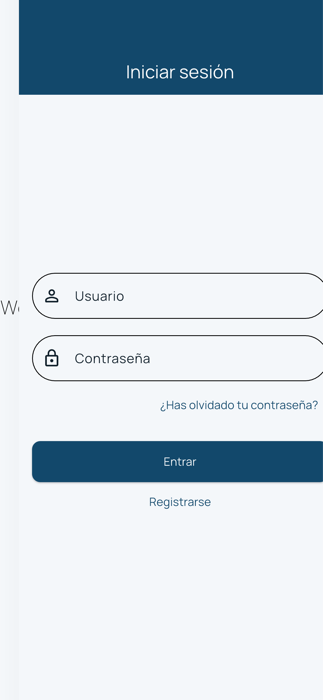
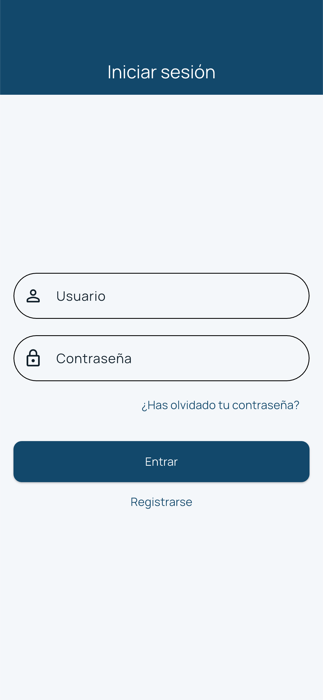
fix(a11y): enlarge the loading indicator, and shoot screenshots after transitions
The card spinner was 16px with a 2px stroke, which reads as a dot rather than
as activity next to 12sp text. Now 22px with a 2.5px stroke.

The screenshot run had two problems of its own:

- It captured as soon as a finder matched, which is while the outgoing route
  is still painted. The login shot was actually the splash screen. Each
  capture now settles the transition first.
- The loading state is dropped from the gallery. The driver renders the
  progress indicator with its sweep at near-zero length, so the shot showed a
  dot regardless of the widget's size -- an artefact of the test environment,
  not of the app. Publishing it would have illustrated the opposite of the
  behaviour it claimed. weather_cards_test covers that state by measurement
  instead.

Four shots remain: login, signup with the credentials the setup section asks
for, the city catalogue, and the panel with one city selected.

diff --git a/integration_test/screenshots_test.dart b/integration_test/screenshots_test.dart
@@ -26,11 +26,23 @@ Future<void> waitForCount(WidgetTester t, String text, int count,
 void main() {
   final binding = IntegrationTestWidgetsFlutterBinding.ensureInitialized();
 
+  /// Captures [name] once the route transition has finished painting.
+  ///
+  /// A finder matches as soon as the page enters the tree, which is while the
+  /// previous route is still on top -- capturing then yields the splash screen
+  /// labelled as the login.
+  Future<void> shoot(WidgetTester tester, String name) async {
+    for (var i = 0; i < 8; i++) {
+      await tester.pump(const Duration(milliseconds: 150));
+    }
+    await binding.takeScreenshot(name);
+  }
+
   testWidgets('capture the product screenshots', (tester) async {
     app.main();
 
     await waitFor(tester, find.text('Registrarse'));
-    await binding.takeScreenshot('01-login');
+    await shoot(tester, '01-login');
 
     await tester.tap(find.text('Registrarse'));
     await waitFor(tester, find.widgetWithText(ElevatedButton, 'Registrarse'));
@@ -40,7 +52,7 @@ void main() {
     );
     await tester.enterText(fields.at(0), 'demo');
     await tester.enterText(fields.at(1), '1234');
-    await binding.takeScreenshot('02-registro');
+    await shoot(tester, '02-registro');
 
     await tester.tap(find.descendant(
       of: find.byType(SignupPage),
@@ -53,12 +65,13 @@ void main() {
 
     await tester.tap(find.byIcon(Icons.location_city).hitTestable());
     await waitFor(tester, find.text('Madrid'));
-    await binding.takeScreenshot('03-ciudades');
+    await shoot(tester, '03-ciudades');
 
-    // Straight after selecting, while the forecast is still in flight.
+    // The loading state is deliberately not captured: the driver renders the
+    // progress indicator with its sweep at near-zero length, so the shot shows
+    // a dot rather than the spinner a user sees. weather_cards_test covers the
+    // behaviour instead.
     await tester.tap(find.text('Madrid'));
-    await tester.pump(const Duration(milliseconds: 300));
-    await binding.takeScreenshot('04-cargando');
 
     await waitForCount(tester, 'Madrid', 2);
     await tester.tap(find.byIcon(Icons.location_city).hitTestable());
@@ -68,6 +81,6 @@ void main() {
     for (var i = 0; i < 6; i++) {
       await tester.pump(const Duration(milliseconds: 300));
     }
-    await binding.takeScreenshot('05-panel');
+    await shoot(tester, '05-panel');
   });
 }

diff --git a/lib/features/home/presentation/widgets/weather_cards.dart b/lib/features/home/presentation/widgets/weather_cards.dart
@@ -113,11 +113,14 @@ class _CardStatus extends StatelessWidget {
     if (weatherCity.isLoading) {
       return Semantics(
         label: l10n.loadingCity(weatherCity.name),
+        // 16px with a 2px stroke read as a dot rather than as activity, on the
+        // device as much as in a screenshot. This is the smallest size at which
+        // the sweep is legible next to 12sp text.
         child: SizedBox(
           key: const ValueKey('card-spinner'),
-          width: 16,
-          height: 16,
-          child: CircularProgressIndicator(strokeWidth: 2, color: foreground),
+          width: 22,
+          height: 22,
+          child: CircularProgressIndicator(strokeWidth: 2.5, color: foreground),
         ),
       );
     }

diff --git a/README.md b/README.md
@@ -4,14 +4,13 @@ Aplicación móvil que muestra la temperatura actual de las ciudades que el usua
 con registro y sesión en el dispositivo. Funciona en **iOS y Android desde el mismo código**.
 
 <p align="center">
-  <img src="docs/screenshots/01-login.png" width="23%" alt="Pantalla de inicio de sesión" />
-  <img src="docs/screenshots/03-ciudades.png" width="23%" alt="Catálogo de ciudades" />
-  <img src="docs/screenshots/04-cargando.png" width="23%" alt="Ciudad cargando su pronóstico" />
-  <img src="docs/screenshots/05-panel.png" width="23%" alt="Panel con dos ciudades seguidas" />
+  <img src="docs/screenshots/01-login.png" width="30%" alt="Pantalla de inicio de sesión" />
+  <img src="docs/screenshots/03-ciudades.png" width="30%" alt="Catálogo de ciudades" />
+  <img src="docs/screenshots/05-panel.png" width="30%" alt="Panel con dos ciudades seguidas" />
 </p>
 
 <p align="center">
-  <sub>Inicio de sesión · catálogo de ciudades · una ciudad consultándose ·
+  <sub>Inicio de sesión · catálogo de ciudades ·
   panel con la ciudad seleccionada destacada</sub>
 </p>
 
